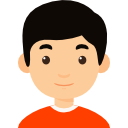
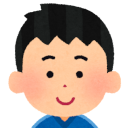
サイボウズユーザーデータインポート開発. アイコン変更。区分、背番号もCSVから取得。

diff --git a/app/Console/Commands/CybozeImport/UserImporter.php b/app/Console/Commands/CybozeImport/UserImporter.php
@@ -46,30 +46,40 @@
       fgetcsv($filepath); //ヘッダ行
       DB::transaction(function () use ($filepath) {
         while ($row = fgetcsv($filepath)) {
-          $this->info($row[0] . $row[1]);
+          $name = $row[0] . $row[1];
+          $type = $row[5];
+          $prof_img_filename = 'boy.png';
+          if ($type == '2') {
+            $prof_img_filename = 'man.png';
+          } else if ($type == '3') {
+            $prof_img_filename = strpos($name, '母')? 'woman.png' : 'man.png';
+          }
+
+          $this->info($name . ' ' . strpos($name, '母'));
           $member = Member::create([
             "team_id" => 100,
-            "name" => $row[0] . $row[1],
+            "name" => $name,
             "name_kana" => $row[2] . $row[3],
-            "type" => 3,
+            "type" => $type,
             "birthday" => null,
-            "backno" => 0,
-            "prof_img_filename" => 'boy.png',
+            "backno" => $type == '1' ? $row[4] : null,
+            "prof_img_filename" => $prof_img_filename,
             "created_id" => 0,
             "updated_id" => 0
           ]);
-          $user = User::create([
-            "name" => $row[0] . $row[1],
-            "name_kana" => $row[2] . $row[3],
-            "email" => $row[4],
-            "team_id" => 100,
-            "member_id" => $member->id,
-            "password" => Hash::make($row[4]),
-            //        "status" => 'invited',
-            "created_id" => 0,
-            "updated_id" => 0
-          ]);
-
+          if ($type == '2' || $type == '3') { //スタッフOR家族
+            $user = User::create([
+              "name" => $row[0] . $row[1],
+              "name_kana" => $row[2] . $row[3],
+              "email" => $row[4],
+              "team_id" => 100,
+              "member_id" => $member->id,
+              "password" => Hash::make($row[4]),
+              //        "status" => 'invited',
+              "created_id" => 0,
+              "updated_id" => 0
+            ]);
+          }
         }
       });
     }

diff --git a/database/migrations/2018_11_25_034759_members_backno_null_ok.php b/database/migrations/2018_11_25_034759_members_backno_null_ok.php
@@ -1,0 +1,38 @@
+<?php
+
+use Illuminate\Support\Facades\Schema;
+use Illuminate\Database\Schema\Blueprint;
+use Illuminate\Database\Migrations\Migration;
+
+  /**
+   * backnoカラムにNULLを許容
+   * Class MembersBacknoNullOk
+   */
+class MembersBacknoNullOk extends Migration
+{
+    /**
+     * Run the migrations.
+     *
+     * @return void
+     */
+    public function up()
+    {
+      Schema::table('members', function (Blueprint $table) {
+        //
+        $table->integer('backno')->nullable()->change();
+      });
+    }
+
+    /**
+     * Reverse the migrations.
+     *
+     * @return void
+     */
+    public function down()
+    {
+      Schema::table('members', function (Blueprint $table) {
+        DB::statement('UPDATE `members` SET `backno` = 0 WHERE `backno` IS NULL');
+        $table->text('backno')->nullable(false)->change();
+      });
+    }
+}
